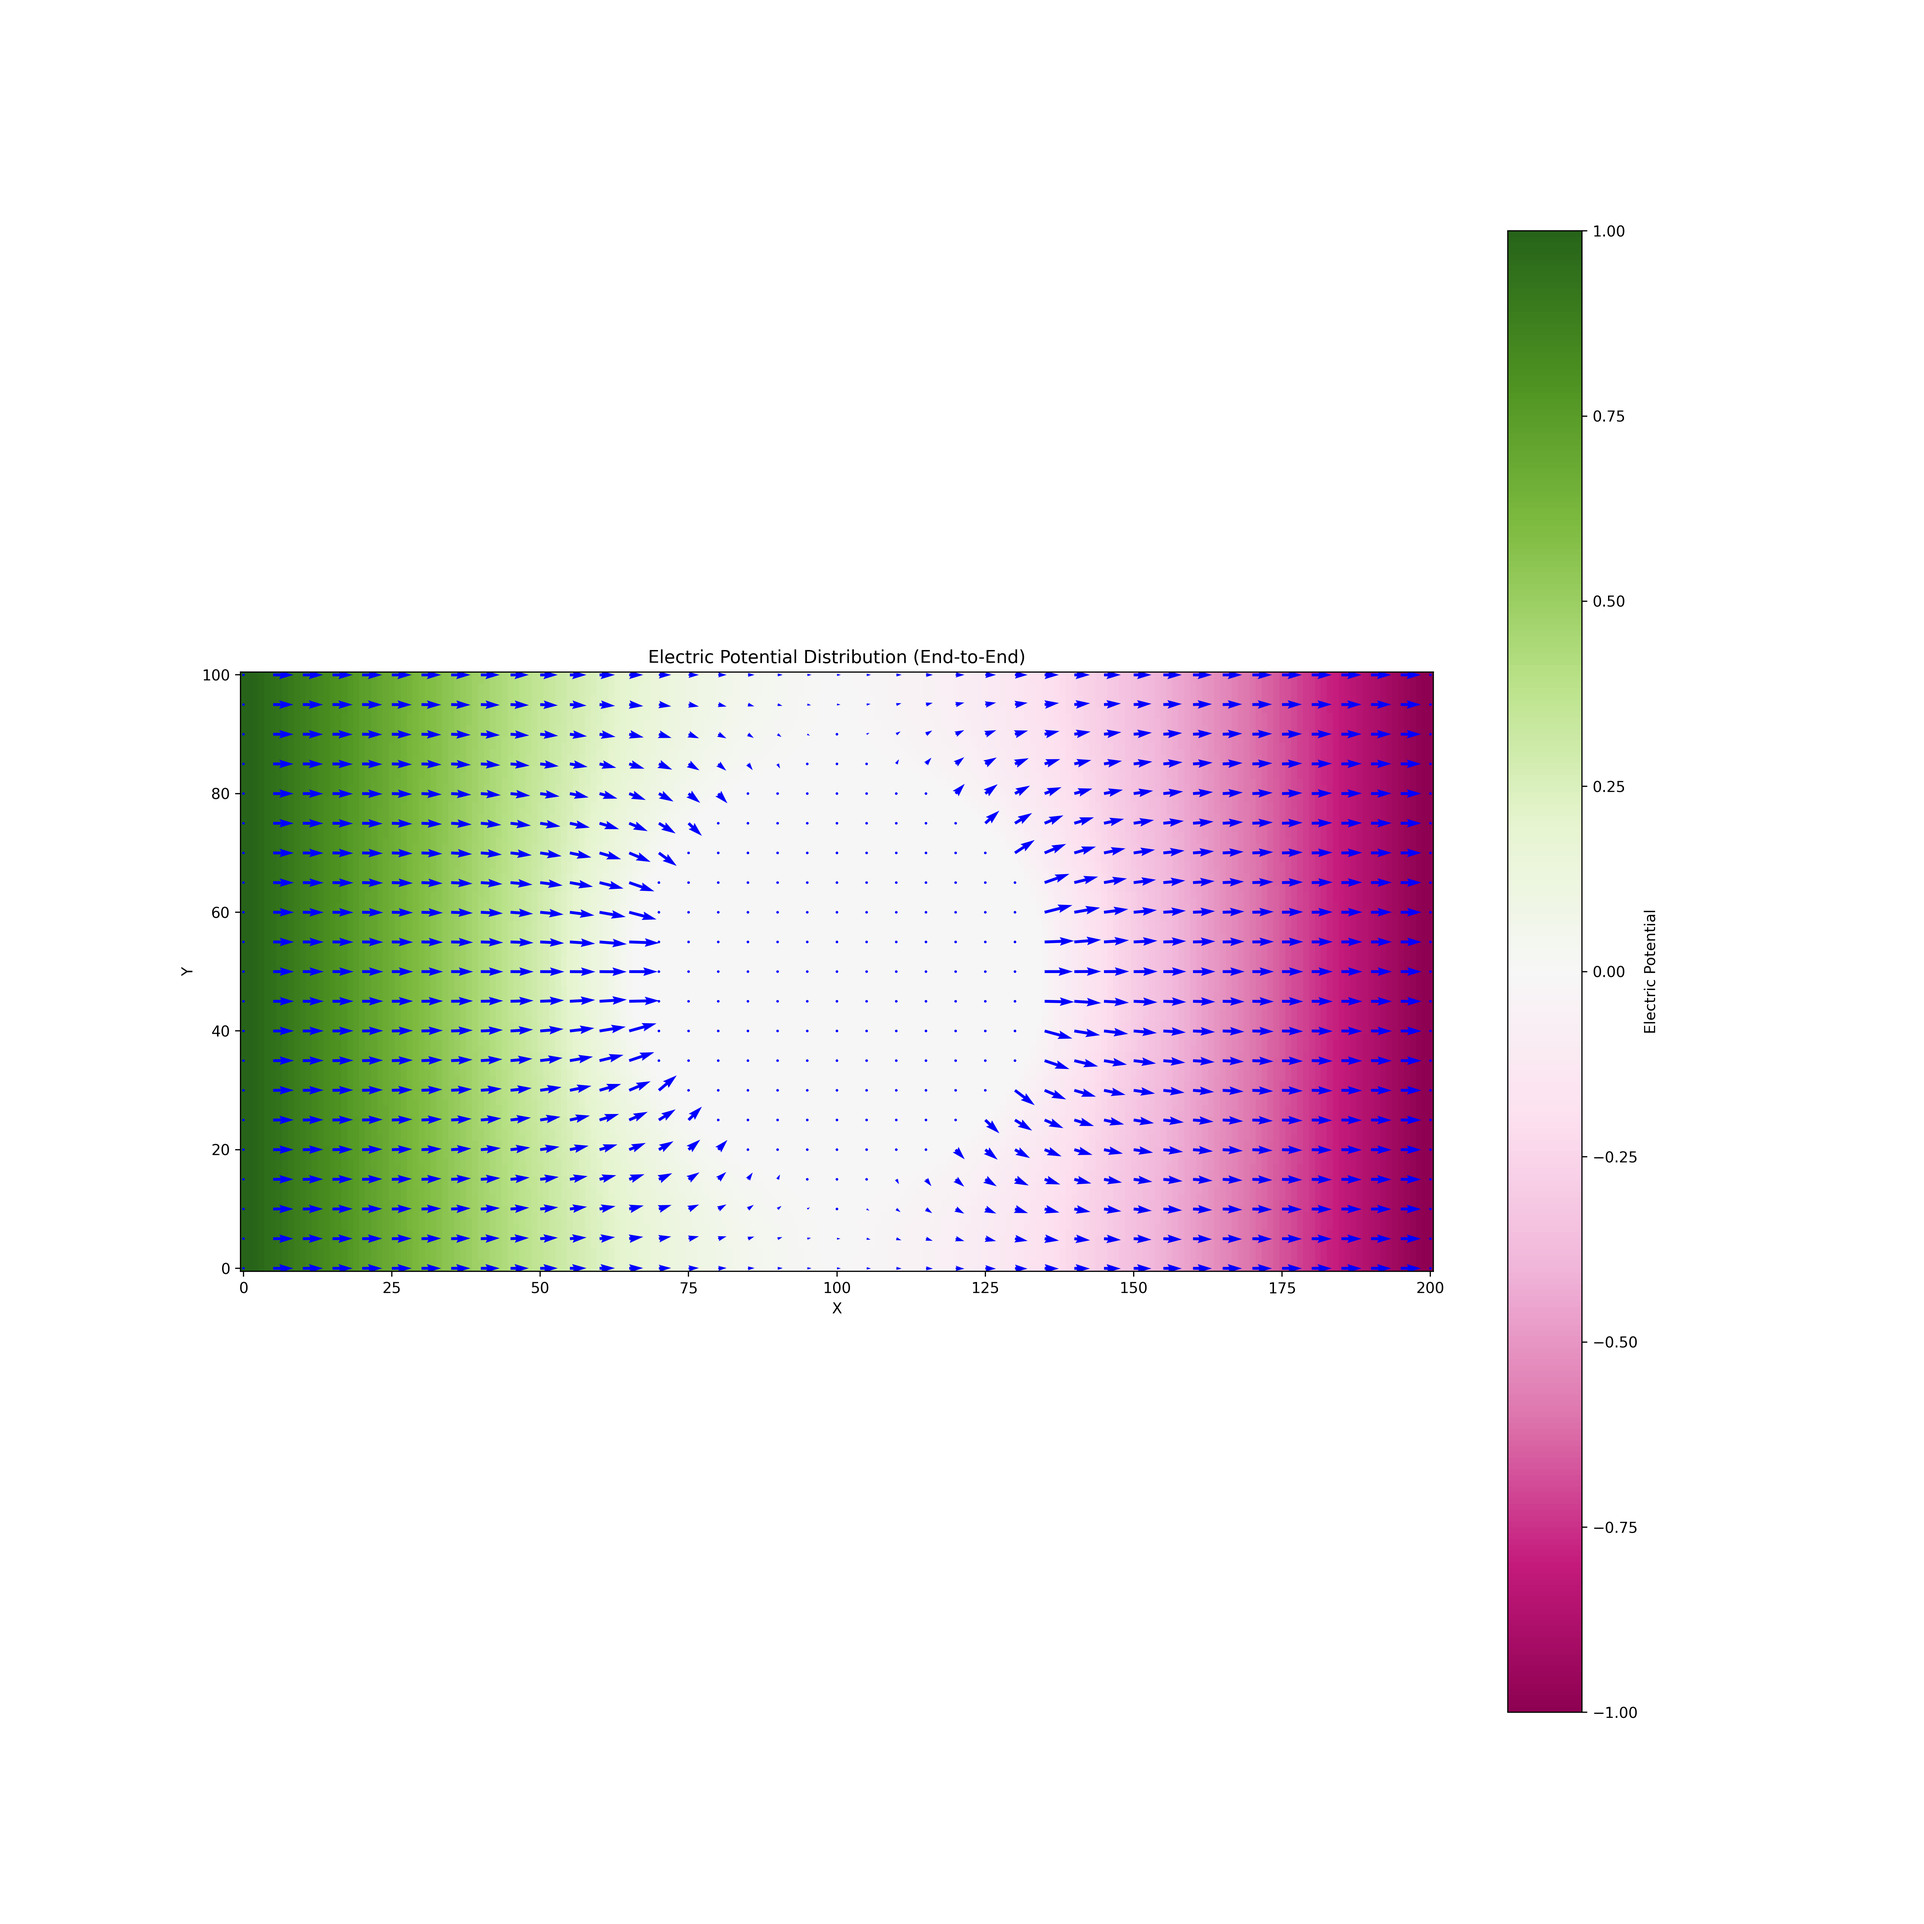
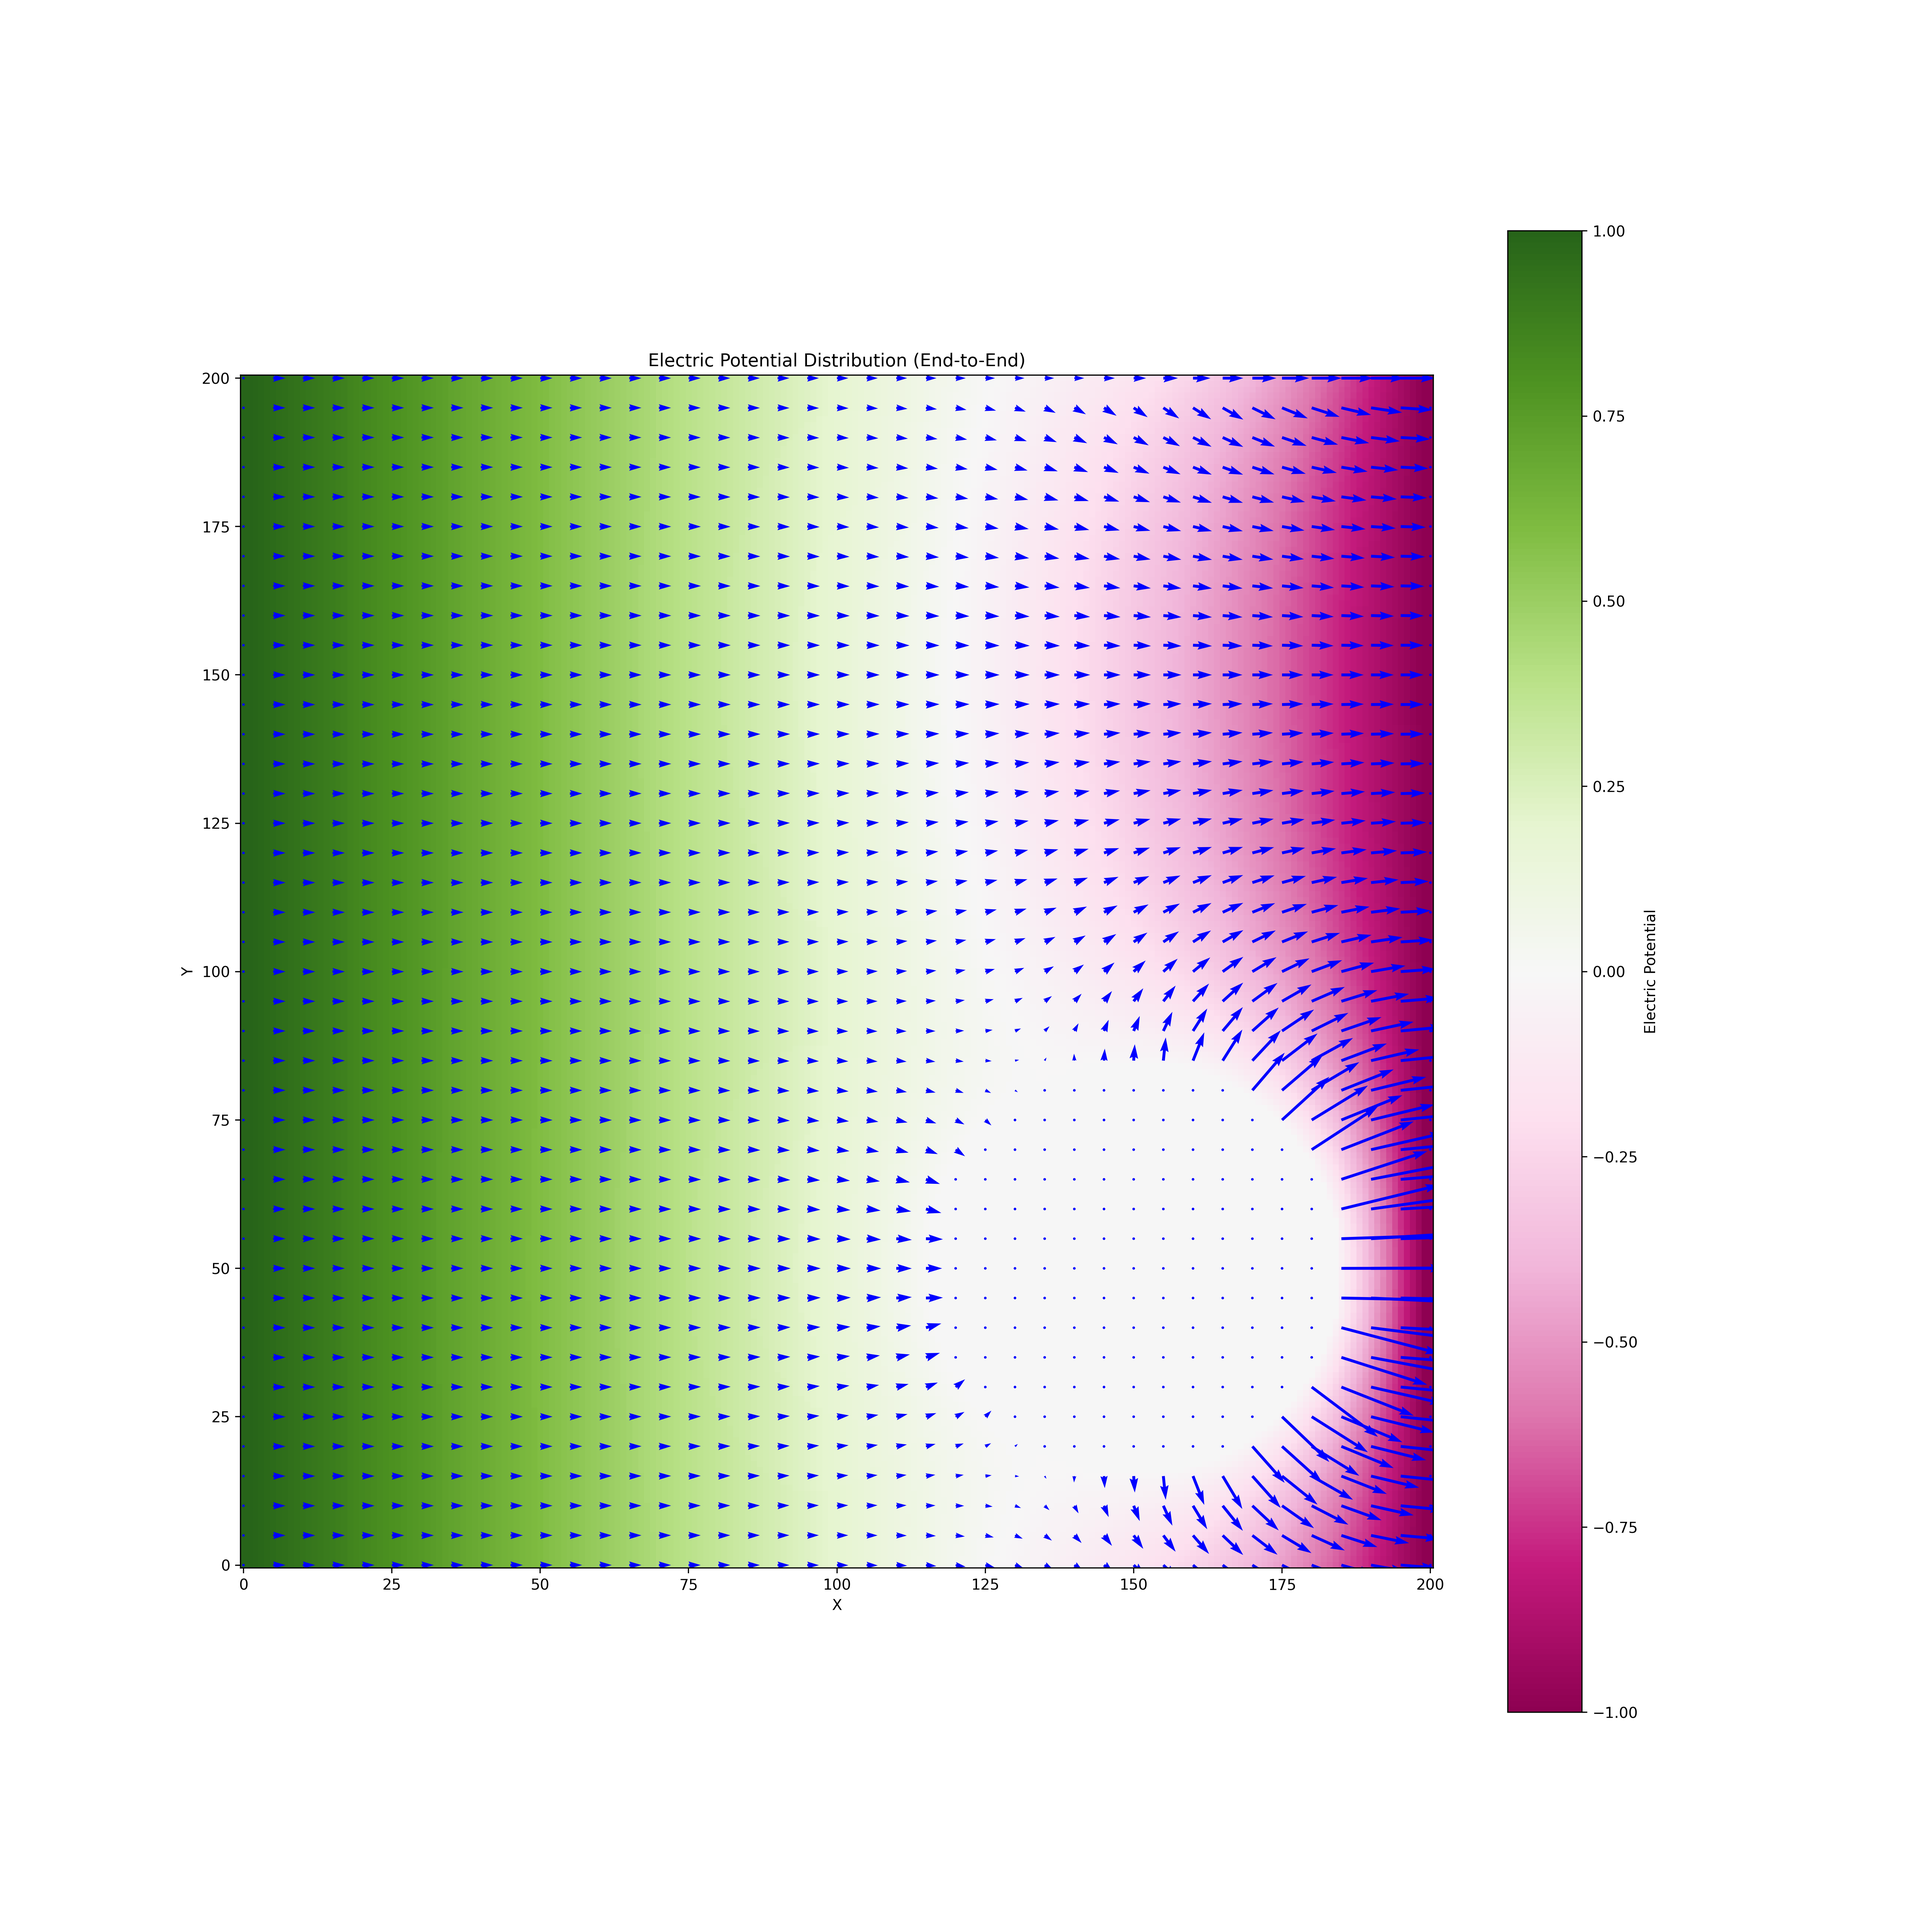
Added a new rectangle geometry

Changed region(s): [[0.125, 0.1875, 0.75, 0.8438], [0.5312, 0.4062, 0.75, 0.8438]]

diff --git a/Numerical_Methods/utils/geometry.py b/Numerical_Methods/utils/geometry.py
@@ -28,7 +28,7 @@ def circle(cx,cy,r,dx=1,dy=1,val=1.0,fill=False,clear=False,Grid:'np.ndarray[np.
     # TODO Variate Tolerance : the cirlces tolerance for a non filled circle should be a function of the radius 
     # Currently not implemented correctly it causes a band instead of a line this band width can variet based on the tolerance
      
-    circle_mask = operations[bool(fill)][bool(clear)]((grid_x-cx)**2 + (grid_y-cy)**2 , r**2,100)
+    circle_mask = operations[bool(fill)][bool(clear)]((grid_x-cx)**2 + (grid_y-cy)**2 , r**2, r)
     # Apply anti-aliasing using Gaussian blur
     # blurred_circle = gaussian_filter(circle_mask.astype(float), sigma=antialias_sigma)
     vals = (1,0) 
@@ -45,7 +45,7 @@ def circle(cx,cy,r,dx=1,dy=1,val=1.0,fill=False,clear=False,Grid:'np.ndarray[np.
 def annulus(cx, cy, r1, r2, dx=1, dy=1, val=1.0, fill=False, clear=False, Grid:'np.ndarray[np.ndarray[np.float64]]'=None):
     # First solve for a qudrant the apply rotations
     # TODO Add Finer Control: Could someone add finer controls to allow for control over the inner and outer values of the annulus 
-    operations = [[lambda w,x,y,z:np.logical_or(np.abs(w-x)<=z,np.abs(w-y)<=z)]*2,[lambda w,x,y,z:np.logical_and(x<=w,w<=y),lambda w,x,y,z:(np.logical_or(x>w,w>y))]]
+    operations = [[lambda w,x,y,z,zz:np.logical_or(np.abs(w-x)<=z,np.abs(w-y)<=zz)]*2,[lambda w,x,y,z,zz:np.logical_and(x<=w,w<=y),lambda w,x,y,z,zz:(np.logical_or(x>w,w>y))]]
 
     grid_class=type(Grid)
     
@@ -57,7 +57,7 @@ def annulus(cx, cy, r1, r2, dx=1, dy=1, val=1.0, fill=False, clear=False, Grid:'
         # print(x,y)
 
     grid_x, grid_y = np.mgrid[:y, :x]
-    annulus_mask = operations[bool(fill)][bool(clear)]( ((grid_x-cx)**2 + (grid_y-cy)**2 ), r1**2, r2**2,100 )
+    annulus_mask = operations[bool(fill)][bool(clear)]( ((grid_x-cx)**2 + (grid_y-cy)**2 ), r1**2, r2**2,r1,r2 )
     # Apply anti-aliasing using Gaussian blur
     # blurred_circle = gaussian_filter(circle_mask.astype(float), sigma=antialias_sigma)
     vals = (1,0) 
@@ -78,8 +78,28 @@ def rectangle(x,y,w,h,dx=1,dy=1,val=1.0,fill=False,clear=False,Grid:'np.ndarray[
     if Grid is not None:
         y,x = Grid.shape
         # print(x,y)
-    grid_x, grid_y = np.mgrid[:y, :x]
-    annulus_mask = operations[bool(fill)][bool(clear)]( ((grid_x-cx)**2 + (grid_y-cy)**2 ), r1**2, r2**2,100 )
+    grid_x, grid_y = np.full((max(0,x0)))
+    # Apply anti-aliasing using Gaussian blur
+    # blurred_circle = gaussian_filter(circle_mask.astype(float), sigma=antialias_sigma)
+    vals = (1,0) 
+    # Threshold to create a binary image (0 or 1)
+    pixelated_annulus = np.where(annulus_mask == True, *vals)
+
+    # mul mask
+    if Grid is not  None:
+        if(grid_class!=tuple):
+            return Grid*pixelated_annulus
+    
+    return pixelated_annulus 
+
+def rectangle(x,y,w,h,dx=1,dy=1,val=1.0,fill=False,clear=False,Grid:'np.ndarray[np.ndarray[np.float64]]'=None):
+    operations = []
+    if type(Grid) == tuple:
+        Grid = np.full(Grid,1)
+    if Grid is not None:
+        y,x = Grid.shape
+        # print(x,y)
+    grid_x, grid_y = np.full((max(0,x0)))
     # Apply anti-aliasing using Gaussian blur
     # blurred_circle = gaussian_filter(circle_mask.astype(float), sigma=antialias_sigma)
     vals = (1,0) 
@@ -103,9 +123,9 @@ def rectangle(x0,y0,x1,y1,theta=0,dx=1,dy=1,val=1.0,fill=False,clear=False,Grid:
 
 if __name__ == '__main__':
     import matplotlib.artist,matplotlib.patches,matplotlib.path,matplotlib.pyplot as plt
-    grid = np.zeros((200,200))
+    grid = np.zeros((500,500))
     grid[:,:]=1
-    circ=annulus(100,100,50,100,2,fill=False,clear=False,Grid=grid)
+    circ=annulus(100,100,25,100,2,fill=False,clear=False,Grid=grid)
         
     plt.imshow(circ, cmap='gray')
     plt.colorbar()

diff --git a/Numerical_Methods/legacy/utils.py b/Numerical_Methods/legacy/utils.py
@@ -4,8 +4,45 @@ import scipy.optimize as optimist
 import matplotlib.pyplot as plt, matplotlib.colors as mcolors, matplotlib.colorbar as mcolorbar
 import sys,os
 import matplotlib.cm as cm
-from ..custom_cmap_maker import rollerCoaster
-from .. import geometry
+
+
+def circle(cx,cy,r,dx=1,dy=1,val=1.0,fill=False,clear=False,Grid:'np.ndarray[np.ndarray[np.float64]]'=None):
+    # First solve for a qudrant the apply rotations
+    operations = [[lambda x,y,z:np.abs(x-y)<=z]*2,[lambda x,y,z:x<=y,lambda x,y,z:x>=y]]
+    
+    # === Fast Slow pointer ===
+    # r1 = np.array([0,r])
+    # r2 = np.array([r,0])
+    # theta = np.linspace(0,np.pi/4,1000)
+    # =======
+    grid_class=type(Grid)
+    # if all we want is a  circle
+    x = 2*int(r//dx)+5
+    y=2*int(r//dy)+5
+    if type(Grid) == tuple:
+        Grid = np.full(Grid,1)
+    # if we inplace into a grid
+    if Grid is not None:
+        y,x = Grid.shape
+        # print(x,y)
+
+    grid_x, grid_y = np.mgrid[:y, :x]
+    
+    # TODO Variate Tolerance : the cirlces tolerance for a non filled circle should be a function of the radius 
+    # Currently not implemented correctly it causes a band instead of a line this band width can variet based on the tolerance
+     
+    circle_mask = operations[bool(fill)][bool(clear)]((grid_x-cx)**2 + (grid_y-cy)**2 , r**2, r)
+    # Apply anti-aliasing using Gaussian blur
+    # blurred_circle = gaussian_filter(circle_mask.astype(float), sigma=antialias_sigma)
+    vals = (1,0) 
+    # Threshold to create a binary image (0 or 1)
+    pixelated_circle = np.where(circle_mask == True, *vals)
+
+    # mul mask
+    if Grid is not  None:
+        if(grid_class!=tuple):
+            return Grid*pixelated_circle
+    return pixelated_circle
 
 # we will be using 64bit floating point representation
 # Stay clear of recursion if possible it a bad game to play unless you have 
@@ -47,7 +84,6 @@ def laplace_ode_solver(size:'tuple[int,int]|np.ndarray[int,int]',fixedCondtions:
     # Frames  = np.zeros((2,int(pixel_w_X_h[1]),int(pixel_w_X_h[0])))
     Frames  = np.zeros((2,Ys.shape[0],Xs.shape[0]))
     Frames[0],overlay = startingshape(Frames[0],retoverlay=True)
-    print(Xs.shape[0],Ys.shape[0])
     i = 0
     # TODO: possibly remove while loop, its too messy.
     while True:
@@ -79,7 +115,7 @@ def findUandV(grid:np.ndarray[np.ndarray[np.float64]]):
 
 
 
-def makeGeometry2(val=1.0,r=35,cx=50,cy=100,relative=False):
+def makeGeometry2(val=1.0,r=35,cx=50,cy=150,relative=False):
     Gridder = None
     def endToEndLine(Grid:np.ndarray,overlay=None,retoverlay=False):
         Grid[(0,-1), 1:-1] = 0.25*(Grid[(0,-1), 2:]+Grid[(0,-1), :-2]+Grid[(-1,-2), 1:-1]+Grid[(1,0), 1:-1])
@@ -97,7 +133,7 @@ def makeGeometry2(val=1.0,r=35,cx=50,cy=100,relative=False):
         endx=midx+width//8
 
         if overlay is None:
-            overlay = geometry.circle(cx,cy,r,fill=True,clear=True,Grid=(*Grid.shape,))
+            overlay = circle(cx,cy,r,fill=True,clear=True,Grid=(*Grid.shape,))
         debug = False
         Grid = overlay*Grid
 
@@ -127,7 +163,7 @@ def BoxinBox(Grid:np.ndarray,r=1):
     return Grid
 
 # Example 1: End-to-End Line
-ys, xs, potential = laplace_ode_solver((200, 100), endToEndLine_, endToEndLine_)
+ys, xs, potential = laplace_ode_solver((200, 200), endToEndLine_, endToEndLine_)
 Xs, Ys = np.meshgrid(xs[::5], ys[::5])
 u, v = np.gradient(potential, xs[1]-xs[0], ys[1]-ys[0])  # Correct gradient calculation
 

diff --git a/Numerical_Methods/Boundaries/task2/boundary.py b/Numerical_Methods/Boundaries/task2/boundary.py
@@ -1,19 +1,23 @@
 import numpy as np
-from ...geometry import circle
+from ...utils.geometry import circle
 
 def geometryFactory(val=1.0,r=35,cx=50,cy=100,relative=False):
     Gridder = None
-    def endToEndLine(Grid:np.ndarray,overlay=None,retoverlay=False):
+    def endToEndLine(Grid:np.ndarray, overlay=None, retoverlay=False, *args, **kwargs):
+        nonlocal Gridder
         Grid[(0,-1), 1:-1] = 0.25*(Grid[(0,-1), 2:]+Grid[(0,-1), :-2]+Grid[(-1,-2), 1:-1]+Grid[(1,0), 1:-1])
         Grid[:,:2]=val
 
         Grid[:,-2:]=-val
 
         if overlay is None:
-            overlay = circle(cx,cy,r,fill=True,clear=True,Grid=(*Grid.shape,))
-        debug = False
+            if Gridder is None:
+                Gridder = overlay = circle(cx,cy,r,fill=True,clear=True,Grid=(*Grid.shape,))
+            else:
+                overlay = Gridder
+            
         Grid = overlay*Grid
         if retoverlay:
-            return Grid,overlay
+            return Grid, overlay
         return Grid
     return endToEndLine

diff --git a/Numerical_Methods/GUI/gui_window_main.py b/Numerical_Methods/GUI/gui_window_main.py
@@ -9,7 +9,7 @@ import tkinter.dialog as tkdiag
 import tkinter.ttk as ttk
 import tkinter.scrolledtext as tksrolltxt
 
-from .menubar import MenuBar
+# from .menubar import MenuBar
 
 class NumericalDisplay(tk.Tk):
 
@@ -32,10 +32,11 @@ class DefaultNumericalDisplay(NumericalDisplay):
         super().__init__(screenName, baseName, className, useTk, sync, use)
 
     def populateWindow(self):
-        from . import scenes
-        self.mbar = MenuBar(self,scenes)
-        self.mbar.grid(in_=self,column=0,row=0,sticky='w',ipadx=4)
-        self.mbar.grid_columnconfigure(-1,weight=1)
+        self.winfo_toplevel().option_add('*tearOff', fa)
+        self.mbar = tk.Menu(self)
+        self.mbar.add_command(accelerator="Cmd+X",label="open")
+        # self.mbar.grid(in_=self,column=0,row=0,sticky='w',ipadx=4)
+        # self.mbar.grid_columnconfigure(-1,weight=1)
         tk.Frame(self,height=480,width=self.winfo_width()-2,padx=2,pady=2)
         
             

diff --git a/Numerical_Methods/utils/custom_cmap_maker.py b/Numerical_Methods/utils/custom_cmap_maker.py
@@ -47,10 +47,9 @@ if __name__ == '__main__':
     storeCMap()
     print('Custom Colormap has been generated and stored in custom_cmap.dat')
 
-colors = loadCMap()
 
 
-if __name__ != '__main__':
-    rollerCoaster = mcolors.ListedColormap(colors,name='mapper',N=len(colors))
-else:
-    print(colors)
+
+# if __name__ != '__main__':
+#     colors = loadCMap()
+#     rollerCoaster = mcolors.ListedColormap(colors,name='mapper',N=len(colors))

diff --git a/test_geometry.py b/test_geometry.py
@@ -1,7 +1,7 @@
-from Numerical_Methods.utils import geometry
+import  Numerical_Methods.utils.geometry as geometry
 import matplotlib.artist,matplotlib.patches,matplotlib.path,matplotlib.pyplot as plt
 import numpy as np
-import check_user_approval
+import test_Numerical.check_user_approval as check_user_approval
 
 class Test_Geometries:
     
